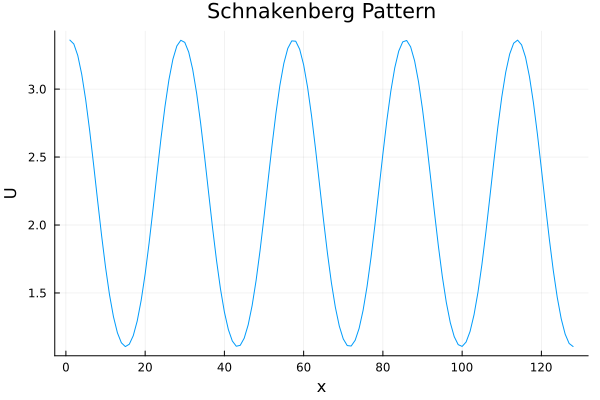
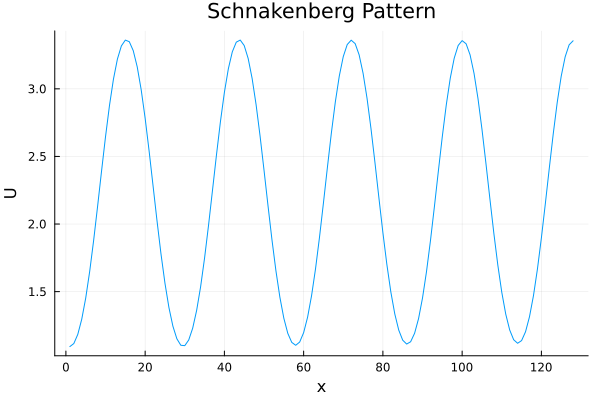
Clean up

diff --git a/README.md b/README.md
@@ -1,8 +1,3 @@
-
-<a id='PseudoSpectral.jl'></a>
-
-<a id='PseudoSpectral.jl-1'></a>
-
 # PseudoSpectral.jl
 
 
@@ -50,18 +45,9 @@ sol = solve(prob; tspan=(0.0,200.0), dt=dt)
 plot(sol[U][end]; xlabel="x", ylabel="U", legend=false, title="Schnakenberg Pattern")
 ```
 
[1 lines of base64/hex data omitted]
-
-<a id='API'></a>
-
-<a id='API-1'></a>
+![Schnakenberg system plot](schnakenberg.png)
 
 ## API
-
-<a id='PseudoSpectralReactionDiffusion.PseudoSpectralProblem' href='#PseudoSpectralReactionDiffusion.PseudoSpectralProblem'>#</a>
-**`PseudoSpectralReactionDiffusion.PseudoSpectralProblem`** &mdash; *Type*.
-
-
 
 ```julia
 PseudoSpectralProblem(species, reaction_rates, diffusion_rates, boundary_conditions, initial_conditions, num_verts; p=nothing, noise=1e-4, rng=default_rng(), kwargs...)
@@ -85,13 +71,6 @@ PseudoSpectral expects Symbolics.jl expressions as inputs. The special variable 
   * `kwargs...`: Keyword arguments passed on to SciML's `solve`. For details see https://docs.sciml.ai/DiffEqDocs/stable/basics/common*solver*opts/.
 
 
-<a target='_blank' href='https://github.com/hiscocklab/PseudoSpectral.jl/blob/101a178ca9c4464639f65adac3c74b67a821179e/src/PseudoSpectralReactionDiffusion.jl#L62-L79' class='documenter-source'>source</a><br>
-
-<a id='PseudoSpectralReactionDiffusion.PseudoSpectralSolution' href='#PseudoSpectralReactionDiffusion.PseudoSpectralSolution'>#</a>
-**`PseudoSpectralReactionDiffusion.PseudoSpectralSolution`** &mdash; *Type*.
-
-
-
 ```julia
 PseudoSpectralSolution
 ```
@@ -103,41 +82,17 @@ Solution object for PsuedoSpectralProblem.
   * By time-step `sol[3]`.
   * By species `sol[U]`.
 
-
-<a target='_blank' href='https://github.com/hiscocklab/PseudoSpectral.jl/blob/101a178ca9c4464639f65adac3c74b67a821179e/src/PseudoSpectralReactionDiffusion.jl#L37-L44' class='documenter-source'>source</a><br>
-
-<a id='CommonSolve.solve' href='#CommonSolve.solve'>#</a>
-**`CommonSolve.solve`** &mdash; *Function*.
-
-
-
 ```julia
 solve(prob::PseudoSpectralProblem, alg=ETDRK4(); kwargs...)
 ```
 
 See https://docs.sciml.ai/DiffEqDocs/stable/basics/common*solver*opts/. Algorithm defaults to [ETDRK4](https://docs.sciml.ai/DiffEqDocs/stable/api/ordinarydiffeq/semilinear/ExponentialRK/#OrdinaryDiffEqExponentialRK.ETDRK4).
 
-
-<a target='_blank' href='https://github.com/hiscocklab/PseudoSpectral.jl/blob/101a178ca9c4464639f65adac3c74b67a821179e/src/PseudoSpectralReactionDiffusion.jl#L136-L141' class='documenter-source'>source</a><br>
-
-<a id='PseudoSpectralReactionDiffusion.PseudoSpectralIntegrator' href='#PseudoSpectralReactionDiffusion.PseudoSpectralIntegrator'>#</a>
-**`PseudoSpectralReactionDiffusion.PseudoSpectralIntegrator`** &mdash; *Type*.
-
-
-
 ```julia
-PseudoSpectralIntegrator(prob::PseudoSpectralProblem; alg=ETDRK4(), kwargs...)
+init(prob::PseudoSpectralProblem; alg=ETDRK4(), dt=0.1, kwargs...)
 ```
 
 Initialize an integrator for the problem. See https://docs.sciml.ai/DiffEqDocs/stable/basics/integrator/. Algorithm defaults to [ETDRK4](https://docs.sciml.ai/DiffEqDocs/stable/api/ordinarydiffeq/semilinear/ExponentialRK/#OrdinaryDiffEqExponentialRK.ETDRK4).
-
-
-<a target='_blank' href='https://github.com/hiscocklab/PseudoSpectral.jl/blob/101a178ca9c4464639f65adac3c74b67a821179e/src/PseudoSpectralReactionDiffusion.jl#L276-L281' class='documenter-source'>source</a><br>
-
-<a id='PseudoSpectralReactionDiffusion.get_u' href='#PseudoSpectralReactionDiffusion.get_u'>#</a>
-**`PseudoSpectralReactionDiffusion.get_u`** &mdash; *Function*.
-
-
 
 ```julia
 get_u(integrator::PseudoSpectralIntegrator)
@@ -145,27 +100,11 @@ get_u(integrator::PseudoSpectralIntegrator)
 
 Return solution values at time `t`, stepping the integrator as necessary.
 
-
-<a target='_blank' href='https://github.com/hiscocklab/PseudoSpectral.jl/blob/101a178ca9c4464639f65adac3c74b67a821179e/src/PseudoSpectralReactionDiffusion.jl#L293-L296' class='documenter-source'>source</a><br>
-
-<a id='PseudoSpectralReactionDiffusion.get_sol' href='#PseudoSpectralReactionDiffusion.get_sol'>#</a>
-**`PseudoSpectralReactionDiffusion.get_sol`** &mdash; *Function*.
-
-
-
 ```julia
 get_sol(integrator::PseudoSpectralIntegrator)
 ```
 
 Return a solution object for the current integrator state.
-
-
-<a target='_blank' href='https://github.com/hiscocklab/PseudoSpectral.jl/blob/101a178ca9c4464639f65adac3c74b67a821179e/src/PseudoSpectralReactionDiffusion.jl#L287-L290' class='documenter-source'>source</a><br>
-
-<a id='PseudoSpectralReactionDiffusion.step!' href='#PseudoSpectralReactionDiffusion.step!'>#</a>
-**`PseudoSpectralReactionDiffusion.step!`** &mdash; *Function*.
-
-
 
 ```julia
 step!(integrator::PseudoSpectralIntegrator, dt=nothing, stop_at_tdt=false)
@@ -173,27 +112,11 @@ step!(integrator::PseudoSpectralIntegrator, dt=nothing, stop_at_tdt=false)
 
 Advance the iterator by `dt`.
 
-
-<a target='_blank' href='https://github.com/hiscocklab/PseudoSpectral.jl/blob/101a178ca9c4464639f65adac3c74b67a821179e/src/PseudoSpectralReactionDiffusion.jl#L303-L306' class='documenter-source'>source</a><br>
-
-<a id='PseudoSpectralReactionDiffusion.step_to!' href='#PseudoSpectralReactionDiffusion.step_to!'>#</a>
-**`PseudoSpectralReactionDiffusion.step_to!`** &mdash; *Function*.
-
-
-
 ```julia
 step_to!(integrator::PseudoSpectralIntegrator, t, stop_at_tdt=false)
 ```
 
 Advance the iterator to time `t`.
-
-
-<a target='_blank' href='https://github.com/hiscocklab/PseudoSpectral.jl/blob/101a178ca9c4464639f65adac3c74b67a821179e/src/PseudoSpectralReactionDiffusion.jl#L314-L317' class='documenter-source'>source</a><br>
-
-
-<a id='Support,-citation-and-future-developments'></a>
-
-<a id='Support,-citation-and-future-developments-1'></a>
 
 ## Support, citation and future developments
 

diff --git a/docs/src/README.md b/docs/src/README.md
@@ -38,7 +38,7 @@ plot(sol[U][end]; xlabel="x", ylabel="U", legend=false, title="Schnakenberg Patt
 PseudoSpectralProblem
 PseudoSpectralSolution
 solve
-PseudoSpectralIntegrator
+init
 get_u
 get_sol
 step!
